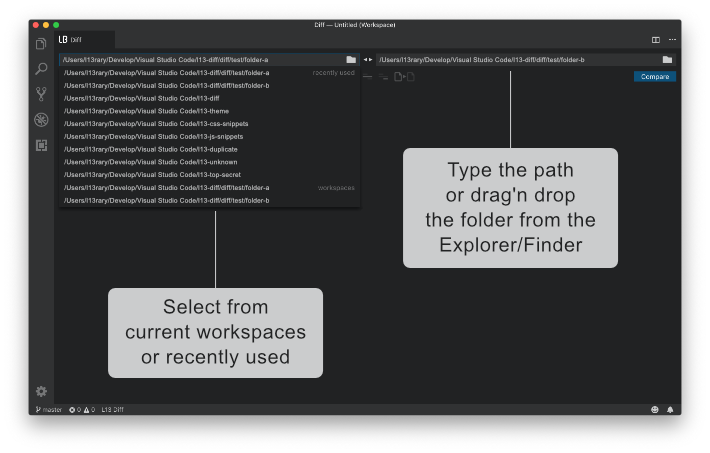
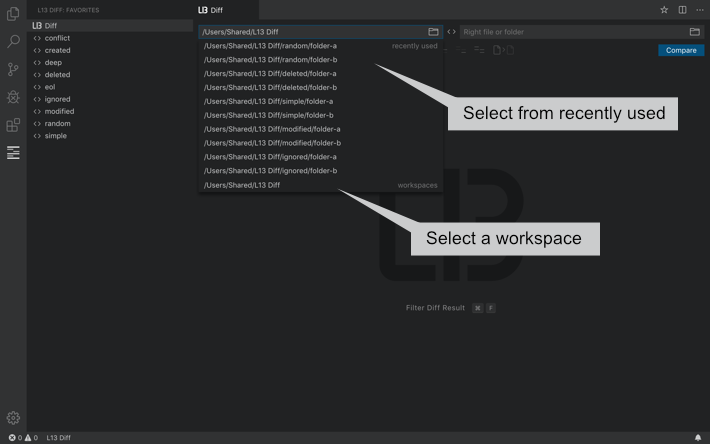
- added random build function for files - added new screens for readme

diff --git a/diff/index.js b/diff/index.js
@@ -13,12 +13,18 @@ const args = process.argv.slice(2);
 let action = '';
 let values = [];
 
+let root = path.join(__dirname, 'test');
+
 const manual = `
 USAGE: node ${path.basename(__filename)} [OPTIONS]
 
 OPTIONS
 
     --clean           Remove all files and folders from the root folder.
+
+    --random          Create a random test file and folder structure.
+
+    --shared          Changed cwd to /Users/Shared folder.
 
     --create          Create a set of files and folders for testing.
 
@@ -48,8 +54,10 @@ params: while (args.length) {
 	switch (args[0]) {
 		case '--help': console.log(manual); process.exit(); break params;
 		case '--': args.shift(); break params;
-		case '--clean': removeFilesAndFolders(path.join(__dirname, 'test')); args.shift(); break;
+		case '--clean': removeFilesAndFolders(path.join(root)); args.shift(); break;
 		case '--create': [action, values] = parseOptions(args); break;
+		case '--random': action = 'random'; args.shift(); break;
+		case '--shared': root = '/Users/Shared/L13 Diff'; args.shift(); break;
 		case '--create-all': action = 'all'; args.shift(); break;
 		default: console.error(`Option '${args[0]}' does not exist\n${manual}`); process.exit(); break params;
 	}
@@ -59,8 +67,12 @@ switch (action) {
 	case 'create':
 		let value;
 		while ((value = values.shift())) {
-			createFilesAndFolders(path.join(__dirname, 'test', value), require(path.join(__dirname, 'patterns', value)));
+			createFilesAndFolders(path.join(root, value), require(path.join(__dirname, 'patterns', value)));
 		}
+		break;
+	case 'random':
+		removeFilesAndFolders(path.join(root, 'random'));
+		createRandomFilesAndFolders(3);
 		break;
 	case 'all':
 		const files = fs.readdirSync(path.join(__dirname, 'patterns'));
@@ -68,7 +80,7 @@ switch (action) {
 			
 			value = path.basename(value, '.json');
 			
-			createFilesAndFolders(path.join(__dirname, 'test', value), require(path.join(__dirname, 'patterns', value)));
+			createFilesAndFolders(path.join(root, value), require(path.join(__dirname, 'patterns', value)));
 			
 		});
 		break;
@@ -110,4 +122,39 @@ function removeFilesAndFolders (cwd) {
 		});
 		fs.rmdirSync(cwd);
 	}
+}
+
+function random (min, max) {
+	
+	min = Math.ceil(min);
+	max = Math.floor(max);
+	
+	return Math.floor(Math.random() * (max - min +1)) + min;
+	
+}
+
+function createRandomStructure (depth) {
+	
+	if (!depth) return null;
+	
+	const structure = {};
+	
+	for (let i = 0, max = random(13, 26); i < max; i++) {
+		const name = Math.random() > 0.5 ? 'file' : 'folder';
+		const char = String.fromCharCode(97 + i);
+		if (name === 'folder') structure[`${name}-${char}`] = Math.random() > 0.5 ? null : createRandomStructure(depth - 1);
+		else structure[`${name}-${char}.txt`] = [ Math.random() > 0.5 ? char : String.fromCharCode(random(1, 127))];
+	}
+	
+	return structure;
+	
+}
+
+function createRandomFilesAndFolders (depth) {
+	
+	createFilesAndFolders(path.join(root, 'random'), {
+		'folder-a': createRandomStructure(depth),
+		'folder-b': createRandomStructure(depth),
+	});
+	
 }

diff --git a/README.md b/README.md
@@ -25,17 +25,29 @@ Compare two folders in Visual Studio Code.
 * Provides logging and stats for the current diff.
 * Get a quick overview with the navigator of the current diff.
 
-Select a folder with the dialog, swap the paths and compare two files or folders.
+### Basics
 
 ![L13 Diff Basics](images/preview-start.png)
 
-Select from recently used, current workspaces or drag'n drop folders into the input fields.
+### Menu
 
 ![L13 Diff Menu](images/preview-menu.png)
 
-Toggle the view, select files by status or copy files from left to right or vice versa.
+### Favorites
 
-![L13 Diff List](images/preview-diff.png)
+![L13 Diff Favorites](images/preview-favorites.png)
+
+### Search, filter or select
+
+![L13 Diff Search](images/preview-search.png)
+
+### List and navigator
+
+![L13 Diff Selection](images/preview-select.png)
+
+### Stats
+
+![L13 Diff Stats](images/preview-stats.png)
 
 ## Available Commands
 
